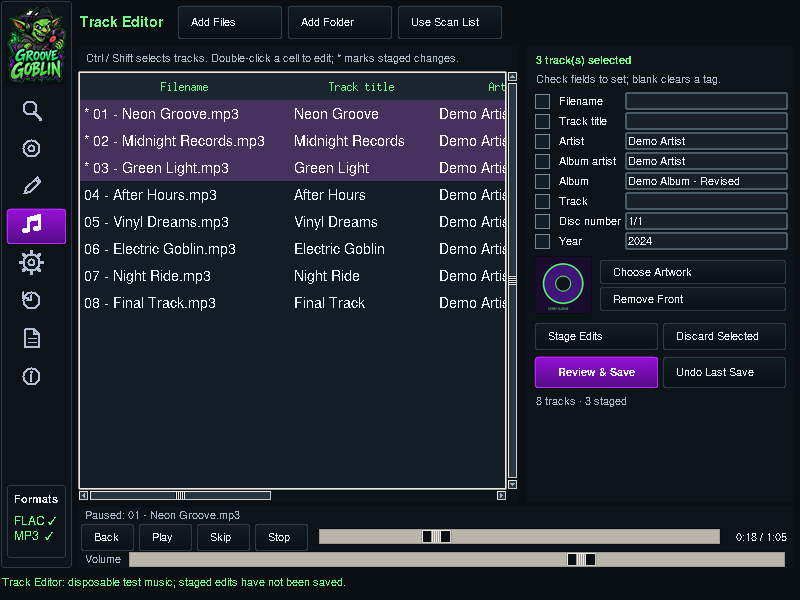
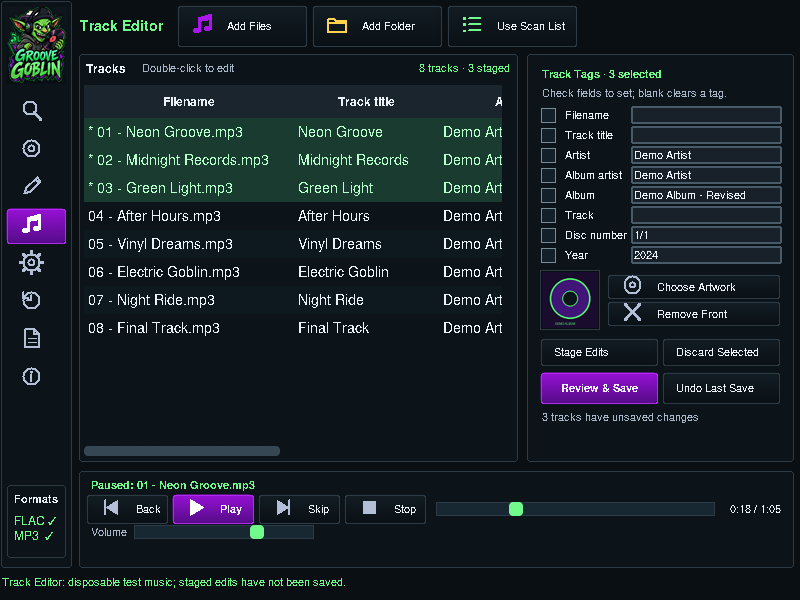
Polish Track Editor panels playback controls and shared dark scrollbars

diff --git a/groove_track_editor.py b/groove_track_editor.py
@@ -2,10 +2,11 @@
 from io import BytesIO
 import json
 from pathlib import Path
+from types import SimpleNamespace
 import tkinter as tk
 from tkinter import ttk, filedialog, messagebox
 from PIL import Image, ImageTk
-from groove_widgets import BG,PANEL,FG,MUTED,GREEN,Button,Check
+from groove_widgets import BG,PANEL,LINE,FG,MUTED,GREEN,PURPLE,Button,Check,Panel,Scrollbar
 from groove_manual import FIELDS,read_track,load_artwork,validate_changes,plan_manual,apply_manual
 from groove_core import scan_folders,newest_journal,undo_journal
 from groove_player import MusicPlayer
@@ -23,30 +24,38 @@ class TrackEditor(tk.Frame):
         toolbar=tk.Frame(self,bg=BG);toolbar.grid(row=0,column=0,sticky='ew',pady=(0,6))
         tk.Label(toolbar,text='Track Editor',bg=BG,fg=GREEN,font=(app.ui_font,12,'bold')).pack(side='left',padx=(0,12))
         self.top_buttons=[]
-        for text,command in [('Add Files',self.add_files),('Add Folder',self.add_folder),('Use Scan List',self.import_scan)]:
-            button=Button(toolbar,text,command,width=105,height=34,font=(app.ui_font,9))
+        for text,command,symbol,accent,subtitle in [('Add Files',self.add_files,'music',PURPLE,'Select tracks to edit'),('Add Folder',self.add_folder,'folder','#ffd24c','Add a music folder'),('Use Scan List',self.import_scan,'list',GREEN,'Import scanned tracks')]:
+            button=Button(toolbar,text,command,width=180,height=58,symbol=symbol,accent=accent,subtitle=subtitle,font=(app.ui_font,10))
             button.pack(side='left',padx=(0,5));self.top_buttons.append(button)
         self.body=tk.Frame(self,bg=BG);self.body.grid(row=1,column=0,sticky='nsew')
         self.body.columnconfigure(0,weight=1);self.body.columnconfigure(1,minsize=320);self.body.rowconfigure(0,weight=1)
-        listing=tk.Frame(self.body,bg=PANEL);listing.grid(row=0,column=0,sticky='nsew',padx=(0,8))
+        self.list_panel=Panel(self.body,padding=8);self.list_panel.grid(row=0,column=0,sticky='nsew',padx=(0,8))
+        listing=self.list_panel.body
         listing.rowconfigure(1,weight=1);listing.columnconfigure(0,weight=1)
-        tk.Label(listing,text='Ctrl / Shift selects tracks. Double-click a cell to edit; * marks staged changes.',
-                 bg=PANEL,fg=MUTED,font=(app.ui_font,8),anchor='w').grid(row=0,column=0,sticky='ew',padx=6,pady=5)
-        self.tree=ttk.Treeview(listing,columns=FIELDS,show='headings',selectmode='extended')
+        header=tk.Frame(listing,bg=PANEL);header.grid(row=0,column=0,columnspan=2,sticky='ew',pady=(0,7))
+        tk.Label(header,text='Tracks',bg=PANEL,fg=FG,font=(app.ui_font,11,'bold')).pack(side='left')
+        self.track_hint=tk.Label(header,text='Double-click to edit',bg=PANEL,fg=MUTED,font=(app.ui_font,8))
+        self.track_hint.pack(side='left',padx=12)
+        self.track_count=tk.Label(header,text='0 tracks',bg=PANEL,fg=GREEN,font=(app.ui_font,9));self.track_count.pack(side='right')
+        self.tree=ttk.Treeview(listing,columns=FIELDS,show='headings',selectmode='extended',style='Editor.Treeview')
         for field in FIELDS:
             self.tree.heading(field,text=LABELS[field],command=lambda f=field:self.sort(f))
             self.tree.column(field,width=210 if field=='filename' else (60 if field in ('track','disc','year') else 145),minwidth=45,stretch=False)
+        self.tree.tag_configure('even',background='#0e181f')
+        self.tree.tag_configure('odd',background=PANEL)
+        self.tree.tag_configure('staged',foreground=GREEN)
         self.tree.grid(row=1,column=0,sticky='nsew')
-        ttk.Scrollbar(listing,orient='vertical',command=self.tree.yview).grid(row=1,column=1,sticky='ns')
+        Scrollbar(listing,orient='vertical',command=self.tree.yview,style='Vertical.Goblin.TScrollbar').grid(row=1,column=1,sticky='ns')
         self.tree.configure(yscrollcommand=listing.winfo_children()[-1].set)
-        horizontal=ttk.Scrollbar(listing,orient='horizontal',command=self.tree.xview)
+        horizontal=Scrollbar(listing,orient='horizontal',command=self.tree.xview,style='Horizontal.Goblin.TScrollbar')
         horizontal.grid(row=2,column=0,sticky='ew');self.tree.configure(xscrollcommand=horizontal.set)
         self.tree.bind('<<TreeviewSelect>>',self.selection_changed)
         self.tree.bind('<Double-1>',self.begin_inline)
         self.tree.bind('<Control-a>',self.select_all)
-        self.side=tk.Frame(self.body,bg=PANEL,width=320)
-        self.side.grid(row=0,column=1,sticky='nsew');self.side.grid_propagate(False);self.side.columnconfigure(0,weight=1)
-        self.selection_label=tk.Label(self.side,text='Select tracks to edit',bg=PANEL,fg=GREEN,font=(app.ui_font,10,'bold'),anchor='w')
+        self.side_panel=Panel(self.body,padding=8,width=320)
+        self.side_panel.grid(row=0,column=1,sticky='nsew')
+        self.side=self.side_panel.body;self.side.columnconfigure(0,weight=1)
+        self.selection_label=tk.Label(self.side,text='Track Tags',bg=PANEL,fg=GREEN,font=(app.ui_font,10,'bold'),anchor='w')
         self.selection_label.grid(row=0,column=0,sticky='ew',padx=8,pady=(6,2))
         self.help=tk.Label(self.side,text='Checked fields apply to selected tracks.\nBlank checked fields clear that tag.',bg=PANEL,fg=MUTED,font=(app.ui_font,8),justify='left')
         self.help.grid(row=1,column=0,sticky='w',padx=8,pady=(0,4))
@@ -62,16 +71,16 @@ class TrackEditor(tk.Frame):
             variable.trace_add('write',lambda *args,f=field:self.mark_field(f))
             self.vars[field]=variable;self.enabled[field]=enabled;self.entries[field]=entry;self.checks[field]=check
         self.art_frame=tk.Frame(self.side,bg=PANEL);self.art_frame.grid(row=3,column=0,sticky='ew',padx=8,pady=5)
-        self.cover=tk.Label(self.art_frame,bg='#080e12',width=10,height=4,text='No artwork',fg=MUTED)
+        self.cover=tk.Label(self.art_frame,bg='#080e12',width=10,height=4,text='No artwork',fg=MUTED,highlightthickness=1,highlightbackground=LINE)
         self.cover.pack(side='left',padx=(0,7))
         art_buttons=tk.Frame(self.art_frame,bg=PANEL);art_buttons.pack(side='left',fill='x',expand=True)
         self.art_buttons=[]
-        for text,command in [('Choose Artwork',self.choose_artwork),('Remove Front',self.remove_artwork)]:
-            button=Button(art_buttons,text,command,width=145,height=30,font=(app.ui_font,8))
+        for text,command,symbol in [('Choose Artwork',self.choose_artwork,'disc'),('Remove Front',self.remove_artwork,'cross')]:
+            button=Button(art_buttons,text,command,width=145,height=30,symbol=symbol,font=(app.ui_font,8))
             button.pack(fill='x',pady=1);self.art_buttons.append(button)
         actions=tk.Frame(self.side,bg=PANEL);actions.grid(row=4,column=0,sticky='ew',padx=8,pady=3)
         actions.columnconfigure(0,weight=1);actions.columnconfigure(1,weight=1)
-        self.stage_button=Button(actions,'Stage Edits',self.stage_fields,width=140,height=32,font=(app.ui_font,9),green_active=True)
+        self.stage_button=Button(actions,'Stage Edits',self.stage_fields,width=140,height=32,font=(app.ui_font,9),green_active=True,accent=GREEN)
         self.stage_button.grid(row=0,column=0,sticky='ew',padx=(0,4))
         self.discard_button=Button(actions,'Discard Selected',self.discard_selected,width=140,height=32,font=(app.ui_font,8))
         self.discard_button.grid(row=0,column=1,sticky='ew')
@@ -92,11 +101,20 @@ class TrackEditor(tk.Frame):
         compact=self.winfo_width()<1000 or self.winfo_height()<650
         width=268 if compact else 320
         self.body.columnconfigure(1,minsize=width)
-        self.side.configure(width=width)
+        self.side_panel.configure(width=width)
+        for panel in (self.list_panel,self.side_panel,self.player_panel):
+            panel.padding=6 if compact else 10
+            panel.resize(SimpleNamespace(width=panel.winfo_width(),height=panel.winfo_height()))
+        for index,button in enumerate(self.top_buttons):
+            button.configure(width=130 if compact else 180,height=42 if compact else 58)
+            button.subtitle='' if compact else ['Select tracks to edit','Add a music folder','Import scanned tracks'][index]
+            button.font=(self.app.ui_font,8 if compact else 10);button.draw()
+        ttk.Style(self).configure('Editor.Treeview',rowheight=28 if compact else 34)
         for field in FIELDS:
             self.checks[field].configure(width=93 if compact else 105,height=20 if compact else 24)
             self.checks[field].font=(self.app.ui_font,8 if compact else 9);self.checks[field].draw()
             self.entries[field].configure(font=(self.app.ui_font,8 if compact else 9))
+        self.track_hint.configure(text='Double-click to edit' if compact else 'Ctrl / Shift selects tracks · Double-click to edit · * staged')
         self.summary.configure(wraplength=width-16)
         self.help.configure(text='Check fields to set; blank clears a tag.' if compact else 'Checked fields apply to selected tracks.\nBlank checked fields clear that tag.')
         for button in (self.stage_button,self.discard_button):button.configure(height=28 if compact else 32)
@@ -122,17 +140,18 @@ class TrackEditor(tk.Frame):
     def refresh(self):
         selected=self.selected()
         for item in self.tree.get_children():self.tree.delete(item)
-        for path in self.records:
+        for index,path in enumerate(self.records):
             data=self.values(path)
             values=[data.get(field,'') for field in FIELDS]
             if path in self.pending:values[0]='* '+values[0]
-            self.tree.insert('','end',iid=path,values=values)
+            self.tree.insert('','end',iid=path,values=values,tags=(('even' if index%2==0 else 'odd'),)+(('staged',) if path in self.pending else ()))
         self.tree.selection_set([p for p in selected if p in self.records])
-        self.summary.configure(text=f'{len(self.records)} tracks · {len(self.pending)} staged')
+        self.track_count.configure(text=f'{len(self.records)} tracks · {len(self.pending)} staged')
+        self.summary.configure(text=f'{len(self.pending)} tracks have unsaved changes' if self.pending else 'No staged changes')
         self.selection_changed()
 
     def selection_changed(self,event=None):
-        selected=self.selected();self.selection_label.configure(text=f'{len(selected)} track(s) selected' if selected else 'Select tracks to edit')
+        selected=self.selected();self.selection_label.configure(text=f'Track Tags · {len(selected)} selected' if selected else 'Track Tags')
         self.loading=True
         try:
             for field in FIELDS:
@@ -324,7 +343,7 @@ class TrackEditor(tk.Frame):
         body=tk.Frame(dialog,bg=PANEL);body.pack(fill='both',expand=True,padx=12)
         text=tk.Text(body,bg=PANEL,fg=FG,wrap='word',font=(self.app.ui_font,9),relief='flat')
         text.pack(side='left',fill='both',expand=True)
-        scroll=ttk.Scrollbar(body,command=text.yview);scroll.pack(side='right',fill='y');text.configure(yscrollcommand=scroll.set)
+        scroll=Scrollbar(body,command=text.yview,style='Vertical.Goblin.TScrollbar');scroll.pack(side='right',fill='y');text.configure(yscrollcommand=scroll.set)
         for plan in plans:
             text.insert('end',Path(plan['source']).name+'\n')
             original=self.records[plan['source']]
@@ -356,23 +375,25 @@ class TrackEditor(tk.Frame):
         self.app.run_background(work)
 
     def build_player(self):
-        bar=tk.Frame(self,bg=PANEL);bar.grid(row=2,column=0,sticky='ew',pady=(6,0));bar.columnconfigure(1,weight=1)
-        self.now=tk.Label(bar,text='Select a track and press Play',bg=PANEL,fg=MUTED,font=(self.app.ui_font,8),anchor='w')
+        self.player_panel=Panel(self,padding=8,height=98)
+        self.player_panel.grid(row=2,column=0,sticky='ew',pady=(8,0))
+        bar=self.player_panel.body;bar.columnconfigure(1,weight=1)
+        self.now=tk.Label(bar,text='Select a track and press Play',bg=PANEL,fg=GREEN,font=(self.app.ui_font,9,'bold'),anchor='w')
         self.now.grid(row=0,column=0,columnspan=3,sticky='ew',padx=5)
         controls=tk.Frame(bar,bg=PANEL);controls.grid(row=1,column=0,sticky='w')
         self.play_buttons=[]
         for text,command in [('Back',lambda:self.player_command(self.player.previous)),('Play',self.play_pause),
                              ('Skip',lambda:self.player_command(self.player.next)),('Stop',lambda:self.player_command(self.player.stop))]:
-            button=Button(controls,text,command,width=54,height=28,font=(self.app.ui_font,8))
+            button=Button(controls,text,command,width=82,height=30,primary=text=='Play',symbol=text.lower(),font=(self.app.ui_font,8))
             button.pack(side='left',padx=2);self.play_buttons.append(button)
-        self.progress=ttk.Scale(bar,from_=0,to=1)
+        self.progress=ttk.Scale(bar,from_=0,to=1,style='Player.Horizontal.TScale')
         self.progress.grid(row=1,column=1,sticky='ew',padx=8)
         self.progress.bind('<ButtonPress-1>',lambda e:setattr(self,'seeking',True))
         self.progress.bind('<ButtonRelease-1>',self.seek)
         self.time=tk.Label(bar,text='0:00 / 0:00',bg=PANEL,fg=FG,font=(self.app.ui_font,8));self.time.grid(row=1,column=2,padx=5)
         volume=tk.Frame(bar,bg=PANEL);volume.grid(row=2,column=0,columnspan=3,sticky='ew')
         tk.Label(volume,text='Volume',bg=PANEL,fg=MUTED,font=(self.app.ui_font,8)).pack(side='left',padx=5)
-        self.volume=ttk.Scale(volume,from_=0,to=100,command=self.player.set_volume);self.volume.set(70);self.volume.pack(side='left',fill='x',expand=True,padx=(0,8))
+        self.volume=ttk.Scale(volume,from_=0,to=100,command=self.player.set_volume,style='Player.Horizontal.TScale');self.volume.set(70);self.volume.configure(length=180);self.volume.pack(side='left',padx=(0,8))
 
     def play_pause(self):
         if self.app.worker_busy:return
@@ -398,7 +419,9 @@ class TrackEditor(tk.Frame):
         except Exception as error:self.player.stop();self.app.log('Playback: '+str(error))
         current=self.player.current
         self.now.configure(text=(self.player.state.title()+': '+Path(current['path']).name) if current else 'Select a track and press Play')
-        self.play_buttons[1].text='Pause' if self.player.state=='playing' else 'Play';self.play_buttons[1].draw()
+        playing=self.player.state=='playing'
+        self.play_buttons[1].text='Pause' if playing else 'Play'
+        self.play_buttons[1].symbol='pause' if playing else 'play';self.play_buttons[1].draw()
         self.progress.configure(to=max(.01,self.player.duration))
         if not self.seeking:self.progress.set(self.player.position)
         def fmt(seconds):return f'{int(seconds)//60}:{int(seconds)%60:02d}'

diff --git a/groove_layout.py b/groove_layout.py
@@ -2,7 +2,7 @@
 from pathlib import Path
 import tkinter as tk
 from tkinter import ttk, messagebox, filedialog, font as tkfont
-from PIL import Image, ImageTk
+from PIL import Image, ImageTk, ImageDraw
 from groove_artwork import CoverCache
 from groove_widgets import BG, PANEL, LINE, FG, MUTED, GREEN, Button, Check, Radio, Panel, Table, icon
 from groove_core import plan_actions
@@ -49,6 +49,40 @@ def install_layout(cls):
         s.configure('Manual.TEntry',padding=1)
         s.configure('TScrollbar',background='#27363f',troughcolor=PANEL,bordercolor=PANEL,arrowcolor=MUTED,arrowsize=10)
         s.map('TScrollbar',background=[('active','#43565f')])
+        # Image elements prevent platform themes from adding bevels or grips.
+        if not hasattr(self,'_theme_images'):self._theme_images=[]
+        def pill(size,color):
+            image=Image.new('RGBA',(size[0]*3,size[1]*3))
+            ImageDraw.Draw(image).rounded_rectangle((0,0,size[0]*3-1,size[1]*3-1),radius=12,fill=color)
+            photo=ImageTk.PhotoImage(image.resize(size,Image.Resampling.LANCZOS),master=self)
+            self._theme_images.append(photo);return photo
+        for direction,sticky,size in [('Vertical','ns',(10,28)),('Horizontal','ew',(28,10))]:
+            element='Goblin.'+direction+'.Scrollbar.thumb'
+            if element not in s.element_names():
+                s.element_create(element,'image',pill(size,'#344753'),
+                                 ('disabled',pill(size,PANEL)),('pressed',pill(size,GREEN)),('active',pill(size,'#608090')),
+                                 border=4,sticky='nsew')
+            name=direction+'.Goblin.TScrollbar'
+            s.layout(name,[(direction+'.Scrollbar.trough',{'sticky':sticky,'children':[
+                (element,{'expand':True,'sticky':'nsew'})]})])
+            s.configure(name,troughcolor=PANEL,bordercolor=PANEL,
+                        lightcolor=PANEL,darkcolor=PANEL,borderwidth=0,arrowsize=10)
+        s.configure('Editor.Treeview',background=PANEL,fieldbackground=PANEL,foreground=FG,
+                    borderwidth=0,relief='flat',rowheight=32)
+        s.layout('Editor.Treeview',[('Treeview.treearea',{'sticky':'nsew'})])
+        s.configure('Editor.Treeview.Heading',background='#1a252e',foreground=FG,
+                    relief='flat',font=(self.ui_font,9,'bold'),padding=(8,7))
+        s.map('Editor.Treeview',background=[('selected','#193b30')],foreground=[('selected','#b6ffcb')])
+        s.map('Editor.Treeview.Heading',background=[('active','#243641')])
+        element='Goblin.Horizontal.Scale.slider'
+        if element not in s.element_names():
+            s.element_create(element,'image',pill((14,14),GREEN),
+                             ('active',pill((14,14),'#b6ffcb')),sticky='')
+        s.layout('Player.Horizontal.TScale',[('Horizontal.Scale.trough',{'sticky':'we','children':[
+            (element,{'side':'left','sticky':''})]})])
+        s.configure('Player.Horizontal.TScale',background=PANEL,troughcolor='#172832',
+                    bordercolor=LINE,lightcolor=LINE,darkcolor=LINE,borderwidth=0)
+        s.map('Manual.TEntry',bordercolor=[('focus',GREEN),('!focus','#485b68')])
 
     def build_ui(self):
         self.configure(bg=BG)

diff --git a/tests/test_track_editor.py b/tests/test_track_editor.py
@@ -138,6 +138,42 @@ class TrackEditorTests(unittest.TestCase):
         self.assertIn(str(path),e.records)
         self.assertEqual(path.read_bytes(),before)
 
+    def test_themed_scrollbars_drag_and_theme_images_survive_zoom(self):
+        from tkinter import ttk
+        e=self.editor;a=self.app
+        for index in range(80):
+            e.tree.insert('','end',iid='viewport-test-'+str(index),values=('Track '+str(index),)*8)
+        a.update()
+        listing=e.tree.master
+        bars=[w for w in listing.winfo_children() if isinstance(w,ttk.Scrollbar)]
+        vertical=next(w for w in bars if str(w.cget('orient'))=='vertical')
+        horizontal=next(w for w in bars if str(w.cget('orient'))=='horizontal')
+        self.assertGreater(e.tree.yview()[1],0);self.assertLess(e.tree.yview()[1],1)
+        self.assertFalse(vertical.instate(['disabled']))
+        # Exercise the actual themed thumb through Tk's built-in bindings.
+        vertical.event_generate('<ButtonPress-1>',x=5,y=12)
+        vertical.event_generate('<B1-Motion>',x=5,y=120)
+        vertical.event_generate('<ButtonRelease-1>',x=5,y=120);a.update()
+        self.assertGreater(e.tree.yview()[0],0)
+        horizontal.event_generate('<ButtonPress-1>',x=20,y=5)
+        horizontal.event_generate('<B1-Motion>',x=100,y=5)
+        horizontal.event_generate('<ButtonRelease-1>',x=100,y=5);a.update()
+        self.assertGreater(e.tree.xview()[0],0)
+        e.player.playlist=[{**e.records[str(self.paths[0])],'duration':100}];e.player.index=0
+        e.progress.configure(to=100);e.progress.set(0);a.update()
+        x,y=e.progress.coords()
+        with patch.object(e.player,'seek') as seek:
+            e.progress.event_generate('<ButtonPress-1>',x=x,y=y)
+            e.progress.event_generate('<B1-Motion>',x=e.progress.winfo_width()//2,y=y)
+            e.progress.event_generate('<ButtonRelease-1>',x=e.progress.winfo_width()//2,y=y)
+            seek.assert_called_once();self.assertGreater(seek.call_args.args[0],0)
+        e.player.playlist=[];e.player.index=-1
+        photos=[str(p) for p in a._theme_images];a.zoom(1);a.update()
+        live=set(a.tk.call('image','names'))
+        self.assertTrue(set(photos).issubset(live))
+        for index in range(80):e.tree.delete('viewport-test-'+str(index))
+        a.update();self.assertTrue(vertical.instate(['disabled']))
+
     def test_editor_widgets_and_branding_fit_during_resize(self):
         a=self.app;e=self.editor
         for width,height in [(800,600),(1024,768),(1536,1000),(1920,1080),(850,620)]:

diff --git a/groove_widgets.py b/groove_widgets.py
@@ -49,6 +49,17 @@ def icon(c, name, x, y, size=24, color=MUTED):
         line([p(15,14),p(22,22)],3*s)
     elif name == 'play':
         c.create_polygon(*p(7,3),*p(7,21),*p(21,12),fill=color,outline=color)
+    elif name == 'pause':
+        for left in (6,15):c.create_rectangle(*p(left,4),*p(left+3,20),fill=color,outline=color)
+    elif name == 'stop':
+        c.create_rectangle(*p(5,5),*p(19,19),fill=color,outline=color)
+    elif name in ('back','skip'):
+        if name=='back':
+            line([p(5,4),p(5,20)],2*s)
+            c.create_polygon(*p(19,4),*p(19,20),*p(7,12),fill=color,outline=color)
+        else:
+            line([p(19,4),p(19,20)],2*s)
+            c.create_polygon(*p(5,4),*p(5,20),*p(17,12),fill=color,outline=color)
     elif name == 'cross':
         line([p(4,4),p(20,20)],3*s);line([p(20,4),p(4,20)],3*s)
     elif name == 'check':
@@ -212,6 +223,13 @@ class Radio(Check):
         self.create_text(28,mid,anchor='w',text=self.text,font=self.font,fill=FG)
 
 
+class Scrollbar(ttk.Scrollbar):
+    """A themed scrollbar that leaves a quiet gutter when everything fits."""
+    def set(self,first,last):
+        super().set(first,last)
+        self.state(['disabled'] if float(first)<=0 and float(last)>=1 else ['!disabled'])
+
+
 class Panel(tk.Canvas):
     def __init__(self,parent,*,padding=11,**kw):
         super().__init__(parent,bg=parent.cget('bg'),highlightthickness=0,bd=0,**kw)
@@ -243,7 +261,7 @@ class Table(tk.Frame):
         if mode!='results':self.head.pack(fill='x')
         self.head.bind('<Button-1>',lambda e:self.on_toggle_all() if e.x<35 and self.on_toggle_all else None)
         self.body=tk.Canvas(self,bg=PANEL,highlightthickness=0,takefocus=True)
-        scroll=ttk.Scrollbar(self,orient='vertical',command=self.yview)
+        scroll=Scrollbar(self,orient='vertical',command=self.yview,style='Vertical.Goblin.TScrollbar')
         scroll.pack(side='right',fill='y');self.body.pack(fill='both',expand=True)
         self.body.configure(yscrollcommand=lambda lo,hi:(scroll.set(lo,hi),self.schedule()))
         self.body.bind('<Configure>',lambda e:self.schedule())

diff --git a/groove_version.py b/groove_version.py
@@ -1,2 +1,2 @@
 """One version string for the window, About, journals and network user agent."""
-__version__ = '1.1.0'
+__version__ = '1.1.1'

diff --git a/README.md b/README.md
@@ -1,4 +1,4 @@
-# Groove Goblin 1.1.0
+# Groove Goblin 1.1.1
 
 Windows desktop music tagger and organizer with a responsive dark Tkinter
 interface, MusicBrainz album lookup, naming presets, manual track editing,
@@ -94,6 +94,10 @@ with a launcher, not a standalone EXE.
 
 ## Window sizing and keyboard
 
+Track Editor uses the same rounded panels and icon buttons as Scan & Fix, with
+alternating dark rows, green selection/staging accents and a framed player.
+Tables use slim rounded scrollbars; player sliders have green handles.
+
 The app fits windows down to 800×600 without an outer scrollbar. Lists scroll
 internally when needed. Resizing reduces artwork and spacing and uses sidebar
 icons with hover labels on compact screens. The branding caption uses two lines
@@ -101,7 +105,7 @@ to fit. [Compact Scan & Fix](docs/interface-compact-linux.png) and
 [compact Track Editor](docs/track-editor-compact-linux.png) show the actual UI.
 Tab navigates controls, Ctrl / Shift selects multiple editor rows, F11 enters
 fullscreen and Esc exits. Ctrl +/- adjusts organizer table text. About and the
-sidebar display version 1.1.0.
+sidebar display version 1.1.1.
 
 Screenshots were captured on a Linux virtual display with disposable generated
 audio and covers; online results are mocked. They show the running application,
@@ -124,7 +128,7 @@ resize bounds, staging without writes, drop auto-scanning, and editor paths afte
 organizer renames/Undo. Playback checks stream real generated MP3 and FLAC files
 through SDL's test audio device and exercise transport, seeking and volume.
 
-46 tests passed on Linux/Python 3.12; two Windows-only tests were skipped.
+47 tests passed on Linux/Python 3.12; two Windows-only tests were skipped.
 Linux validation cannot establish actual Windows audio-device,
 Python 3.15 playback or 125%/150% DPI behavior. The PowerShell launcher and native
 Windows message-loop subprocess tests are skipped on Linux. The user confirmed

diff --git a/CHANGELOG.md b/CHANGELOG.md
@@ -1,5 +1,13 @@
 # Changelog
 
+## 1.1.1
+
+- Matched Track Editor to the main app with rounded panels, icon toolbar cards,
+  alternating track rows, green selection/staging accents and a framed player.
+- Replaced raised scrollbars with slim rounded dark thumbs throughout the tables
+  and manual review dialog; styled playback sliders with green handles.
+- Kept controls visible at the 800×600 minimum size.
+
 ## 1.1.0
 
 - Added eight filename and seven album-folder naming presets with live previews.
